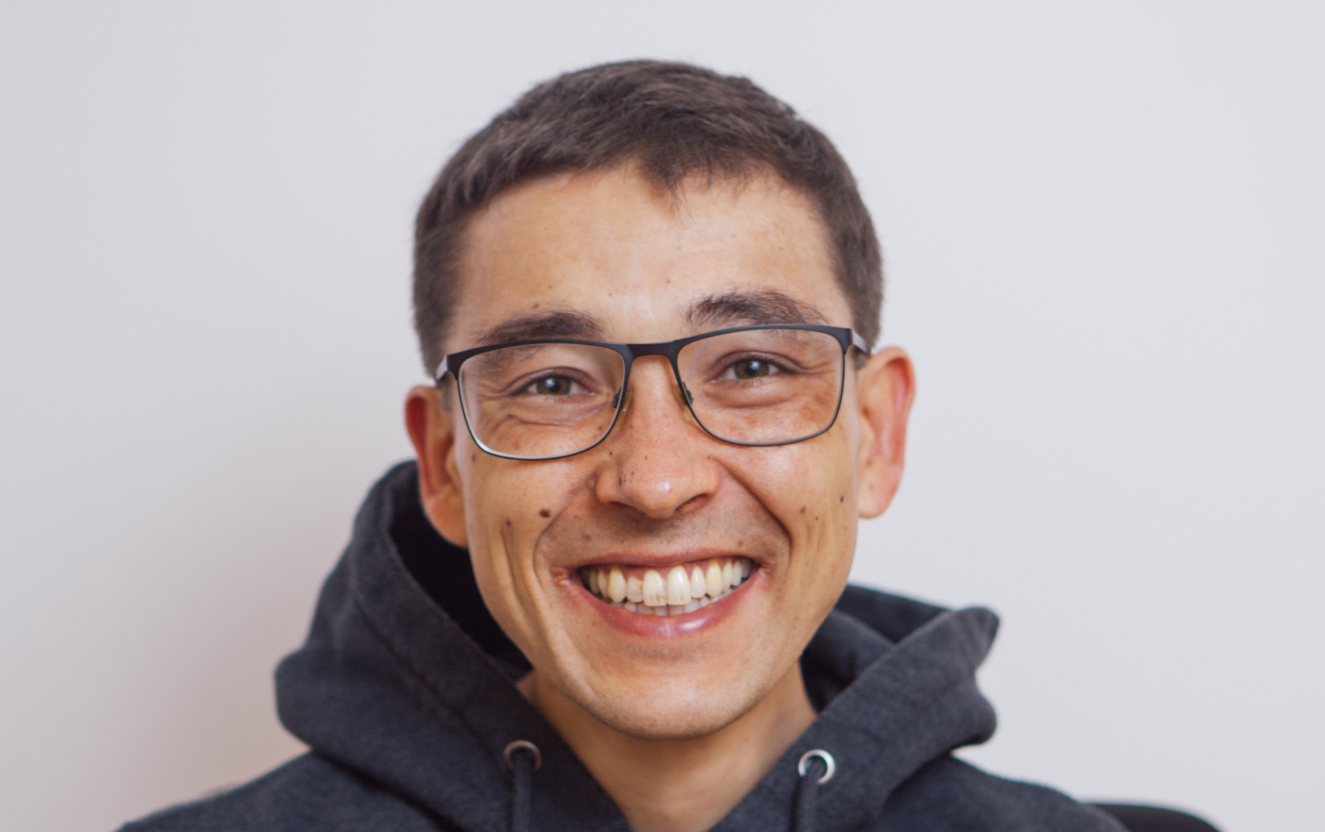
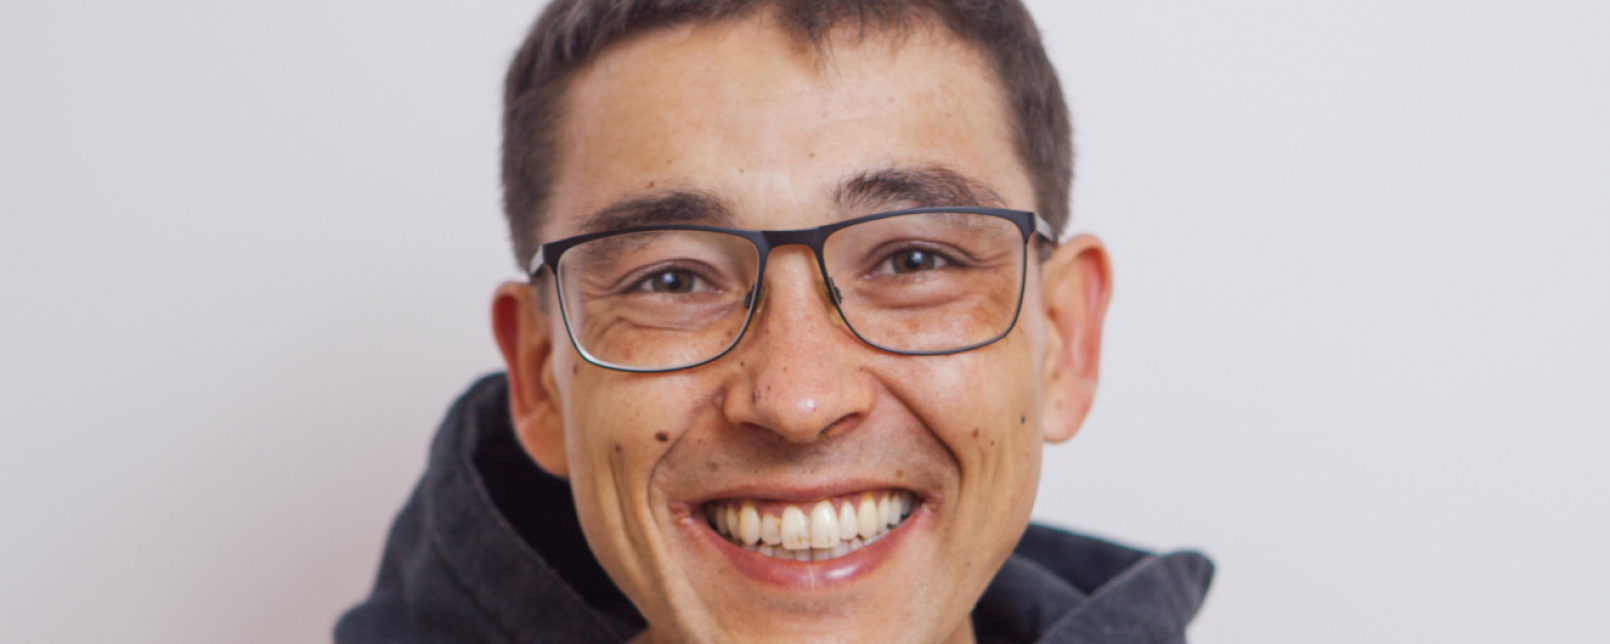
feat(blog): replaced image

Changed region(s): [[0.0619, 0.0, 0.9283, 1.0]]

diff --git a/blog-posts/daniel-interview.md b/blog-posts/daniel-interview.md
@@ -8,42 +8,39 @@ author: "Satellytes"
 
 
 ## Interview mit Daniel Eißing
-Daniel Eißing ist seit einem Monat Senior Frontend Engineer bei Satellytes und das zu 100% remote. Davor hat er fast zwei Jahre lang als Freelancer für Satellytes gearbeitet. Wir haben ihn zum Interview gebeten, damit er uns mehr über Freelance vs. Festanstellung, 100% remote und seinen ungewöhnlichen Arbeitsalltag erzählt.
+Daniel Eißing ist seit einem Monat Senior Frontend Engineer bei Satellytes und das zu 100% remote. Davor hat er fast zwei Jahre lang als Freelancer für Satellytes gearbeitet. Wir haben ihn zum Interview gebeten, damit er uns mehr über Freelance vs. Festanstellung, 100% remote und seinen ungewöhnlichen Arbeitsalltag erzählt.<br>
 
-
-<hr>
-
-**Hallo Daniel. Schön, dass Du Dir die Zeit nimmst. Stell Dich doch mal kurz vor.**<br>
+<br>**Hallo Daniel. Schön, dass Du Dir die Zeit nimmst. Stell Dich doch mal kurz vor.**<br>
 Gerne. Ich bin Daniel Eißing, Entwickler. Ich würde mich als Generalist bezeichnen, denn mir macht die Web-Programmierung insgesamt einfach wahnsinnig viel Spaß. Am spannendsten finde ich den Gap zwischen Technik und User Experience – und diesen zu schließen. In der Web-Entwicklung gibt's dafür die besten Tools, die Entwicklung schreitet extrem schnell voran und so kann man täglich dazulernen um bessere Lösungen zu entwickeln – und mein Glück ist, dass ich sehr gerne dazulerne. In den letzten 8 Jahren habe ich in München gelebt, ein Jahr bei Tomtec gearbeitet und danach fünf Jahre bei SinnerSchrader. Das hat extrem viel Spaß gemacht, ich habe interessante Leute kennen- und viel dazugelernt, aber am Ende gekündigt, um als Freelancer unabhängiger in meinen Entscheidungen zu sein woran ich arbeite.
 
-**Wieso hast du deine freiberufliche Tätigkeit aufgegeben und bei Satellytes angefangen?**<br>
+<br>**Wieso hast du deine freiberufliche Tätigkeit aufgegeben und bei Satellytes angefangen?**<br>
 Kurz gesagt: Weil's einfach gepasst hat. In der Pandemie haben wir ja ein Jahr 100% remote zusammengearbeitet und das hat sich gut angefühlt und das hat perfekt mit meinen Plänen zusammengepasst wieder zurück nach Fulda zu ziehen. Es macht für mich einfach viel Sinn mit Leuten zusammenzuarbeiten bei denen ich weiß, dass es klappt. Und: Das Firmenkonzept passt. Satellytes sind ein paar feine Jungs mit tollen Projekten. Die Kommunikation ist direkt, absolut transparent und auf Augenhöhe. Mehr noch: Es herrscht eine sehr offene Feedback-Kultur, man wird ermutigt Feedback einzubringen, sowohl fachlich auf Projekten als auch im Unternehmen selbst. Ich finde es gut, dass man tatsächlich Ownership an den Sachen an denen man arbeitet übernehmen kann und Einfluss auf das Ergebnis hat und es nicht ins Leere läuft. Man hat die Möglichkeit das Produkt jenseits seiner Kernverantwortung und -kompetenz voranzubringen. Vertrauen war auch ein Faktor, natürlich beidseitig.
 
-**Gab es positive/negative Reaktionen von Kunden zu 100% remote?**<br>
+<br>**Gab es positive/negative Reaktionen von Kunden zu 100% remote?**<br>
 An sich hat sich ja nichts geändert, wir haben seit Projektanfang nur Remote gearbeitet und zu wichtigen Terminen reise ich gerne nach München.
 
-**Gab es Reaktionen von Kollegen?**<br>
+<br>**Gab es Reaktionen von Kollegen?**<br>
 Es wurde "als natürlich" zur Kenntnis genommen, weil viele nach der Pandemie  überlegen, ob fünf Tage im Office noch die beste Lösung sind – aus Sicht von Produktivität, Spaß an der Arbeit, Pensum. Man überlegt auf welche Art und Weise man den Arbeitsalltag verbringen kann, der einen ausgeglichen hält und einem gut tut. Für mich persönlich sind Arbeitslast und Ausgleich besser von zu Hause im Einklang.
 
 ![Daniel](images/interview/daniel.jpg)
 
-**Du arbeitest 100% von zu Hause und hast auch sehr ungewöhnliche Arbeitszeiten. Erzähl doch mal wie dein normaler Arbeitsalltag abläuft.**<br>
+<br>**Du arbeitest 100% von zu Hause und hast auch sehr ungewöhnliche Arbeitszeiten. Erzähl doch mal wie dein normaler Arbeitsalltag abläuft.**<br>
 Ich wache ohne Wecker täglich zwischen 5 und 6 Uhr auf. Dann mache ich mir erst mal einen Kaffee. Danach arbeite ich sehr produktiv 2 bis 3 Stunden, dann frühstücke ich eine Stunde in Ruhe. Nach dem Frühstück fange ich meistens um ca. 9 Uhr wieder an zu arbeiten. Um diese Uhrzeit sind dann auch alle Kollegen aktiv und es wird viel abgestimmt: Requirements Engineering, Tickets schreiben – im Prinzip viel was nicht Programmierarbeit ist, aber trotzdem gemacht werden muss. Manchmal mache ich vormittags sogar noch eine Stunde Sport, andernfalls abends. Um 12:30 bis 13 Uhr mache ich dann Mittag. Von 12 bis 15 Uhr bin ich AFK für Einkaufen, Essen zubereiten, essen und News lesen. In dieser Zeit mache ich auch gerne private Besorgungen, dann springt der Kreislauf wieder an. Ab 17 Uhr bin ich dann wieder am Rechner. So fix ist das aber auch nicht. Ich plane meine Wochen nicht nach 5 x 8 Stunden, sondern nach 7 x N. Im Endeffekt arbeite ich wie ein Freelancer mit fixer Wochenstundenzahl. Meine Tasks und Ziele, die ich in der aktuellen Arbeitswoche erreichen will, habe ich im Kopf. Daran orientiere ich mich, nicht an klassischen 5-Tage-Wochen.
 
-**Einen Arbeitsplatz im Büro brauchst Du ja nicht. Wie sieht deiner zu Hause aus?**<br>
+<br>**Einen Arbeitsplatz im Büro brauchst Du ja nicht. Wie sieht deiner zu Hause aus?**<br>
 Ich habe ein M1 MacBook bekommen, ein Trackpad und eine Tastatur meiner Wahl. Stuhl und Schreibtisch wurde mir angeboten, brauche ich aber nicht. Aber ein gutes Headset ist wichtig, wenn man mal out-of-home arbeitet.
 
-**Wie bleibst Du mit deinen Kollegen in Kontakt? Wie lernst Du Neues und wie/wo lässt Du Dich inspirieren? Die gemeinsame Küche gibt's ja nicht mehr für Plaudereien.**<br>
+<br>**Wie bleibst Du mit deinen Kollegen in Kontakt? Wie lernst Du Neues und wie/wo lässt Du Dich inspirieren? Die gemeinsame Küche gibt's ja nicht mehr für Plaudereien.**<br>
 Unser Daily-Coffee-Talk-Hangout hat die Pandemie überlebt und in Meetings sprechen wir am Anfang oder Ende auch immer paar Minuten privat. Ab und zu komme ich nach München, dann mache ich mir Lunch-Termine mit meinen Kollegen. Und wir wollen die Tage mal "Twitter Spaces" versuchen, das ist ähnlich wie bei Slack "Huddle". Das Format finde ich gut.
 
-**Was vermisst Du bei Home Office vs. Office?**<br>
+<br>**Was vermisst Du bei Home Office vs. Office?**<br>
 Gemeinsames Lunch. Lunchen alleine macht weniger Spaß.
 
-**Wie oft reist Du nach München ins Büro und zu welchen Gelegenheiten?**<br>
+<br>**Wie oft reist Du nach München ins Büro und zu welchen Gelegenheiten?**<br>
 Das wird sich noch zeigen. Ich bin gerne ab und zu zum Lunch da, zu wichtigen Kundenterminen und zu Satellytes-Events.
 
-**Was steht heute noch an?**<br>
+<br>**Was steht heute noch an?**<br>
 Jetzt geht's erst mal ins API Alignment, danach gehe ich kurz Einkaufen und dann bastle ich noch ein bisschen am Liveticker für das aktuelle Projekt bis in die Abendstunden. Feierabend: Manchester vs. Villareal.
 
-**Letzte Worte?**<br>
+<br>**Letzte Worte?**<br>
 Peace out! ✌
